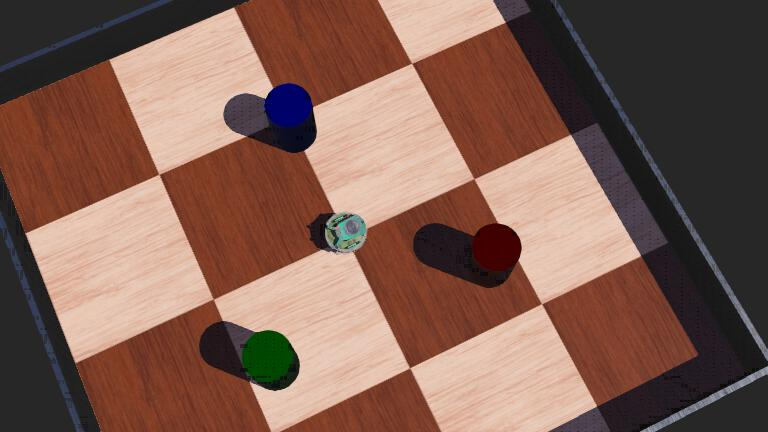
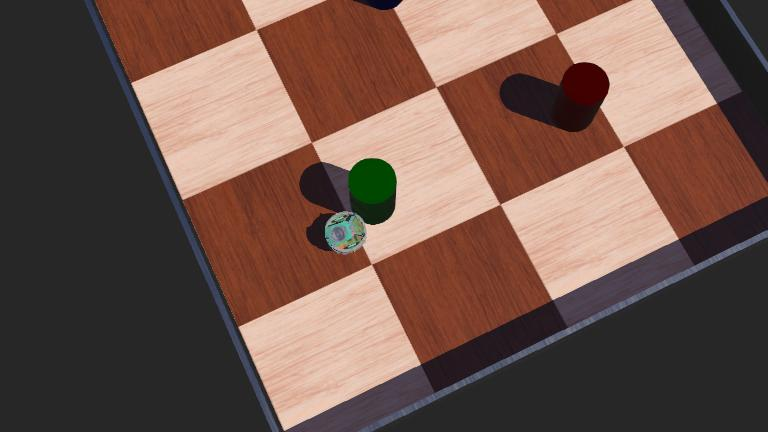
Add mission timer and performance statistics

diff --git a/controllers/nova_controller/nova_controller.py b/controllers/nova_controller/nova_controller.py
@@ -1,4 +1,4 @@
-"""NOVA v0.5: Autonomous rescue mission with colour target detection."""
+"""NOVA v0.6: Autonomous rescue mission with mission statistics."""
 
 from controller import Robot
 import random
@@ -83,12 +83,18 @@ turn_direction = "left"
 
 camera_check_counter = 0
 
+# Mission statistics
+mission_start_time = robot.getTime()
+obstacle_count = 0
+escape_count = 0
+
 
 print("================================================")
-print("NOVA v0.5 RESCUE MISSION STARTED")
+print("NOVA v0.6 RESCUE MISSION STARTED")
 print("Autonomous navigation: ENABLED")
 print("Camera colour detection: ENABLED")
 print("Stuck escape system: ENABLED")
+print("Mission statistics: ENABLED")
 print("Targets required: RED, GREEN and BLUE")
 print("================================================")
 
@@ -221,12 +227,27 @@ while robot.step(TIME_STEP) != -1:
             left_motor.setVelocity(0.0)
             right_motor.setVelocity(0.0)
 
+            mission_end_time = robot.getTime()
+            mission_duration = mission_end_time - mission_start_time
+
             print("")
             print("========================================")
             print("MISSION COMPLETE")
             print("ALL 3 RESCUE TARGETS HAVE BEEN LOCATED")
             print("NOVA HAS STOPPED")
             print("========================================")
+
+            print("")
+            print("========== MISSION SUMMARY ==========")
+            print(f"Mission time: {mission_duration:.1f} seconds")
+            print(
+                f"Targets found: "
+                f"{len(found_targets)}/{len(required_targets)}"
+            )
+            print(f"Obstacles detected: {obstacle_count}")
+            print(f"Escape actions: {escape_count}")
+            print("Mission status: SUCCESS")
+            print("=====================================")
 
             break
 
@@ -256,6 +277,8 @@ while robot.step(TIME_STEP) != -1:
 
     # Escape if both front sides are blocked.
     elif both_sides_blocked:
+        escape_count += 1
+
         reverse_steps_remaining = REVERSE_DURATION
         turn_steps_remaining = TRAPPED_TURN_DURATION
         turn_direction = random.choice(["left", "right"])
@@ -270,6 +293,8 @@ while robot.step(TIME_STEP) != -1:
 
     # Normal obstacle response.
     elif obstacle_ahead:
+        obstacle_count += 1
+
         if front_left > front_right:
             turn_direction = "right"
         elif front_right > front_left:
@@ -294,6 +319,6 @@ while robot.step(TIME_STEP) != -1:
         left_speed = FORWARD_SPEED
         right_speed = FORWARD_SPEED
 
-    # These lines are essential: they actually move the wheels.
+    # Apply wheel speeds.
     left_motor.setVelocity(left_speed)
     right_motor.setVelocity(right_speed)
